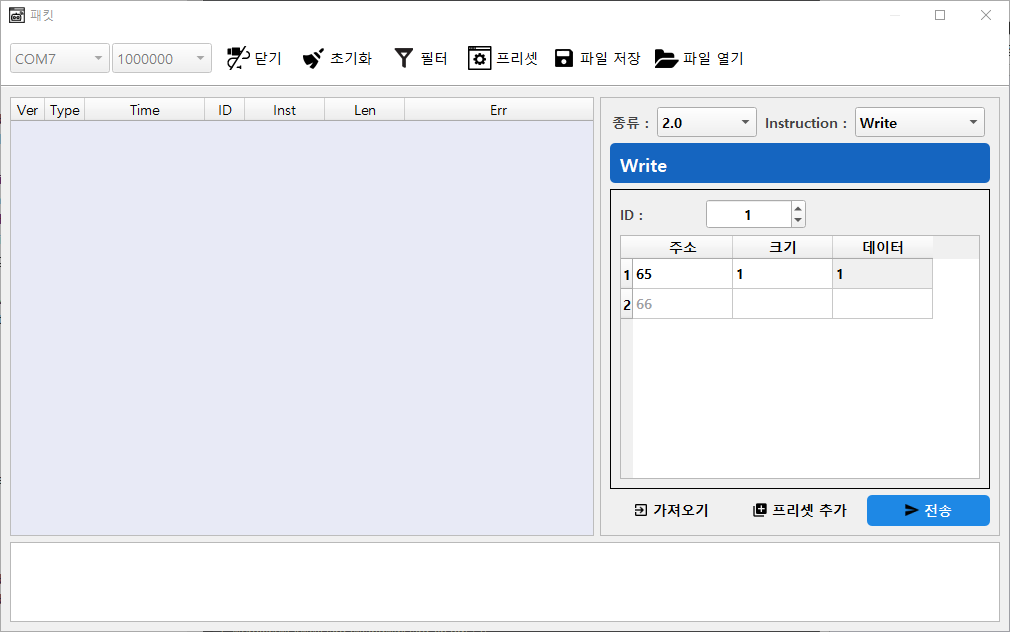
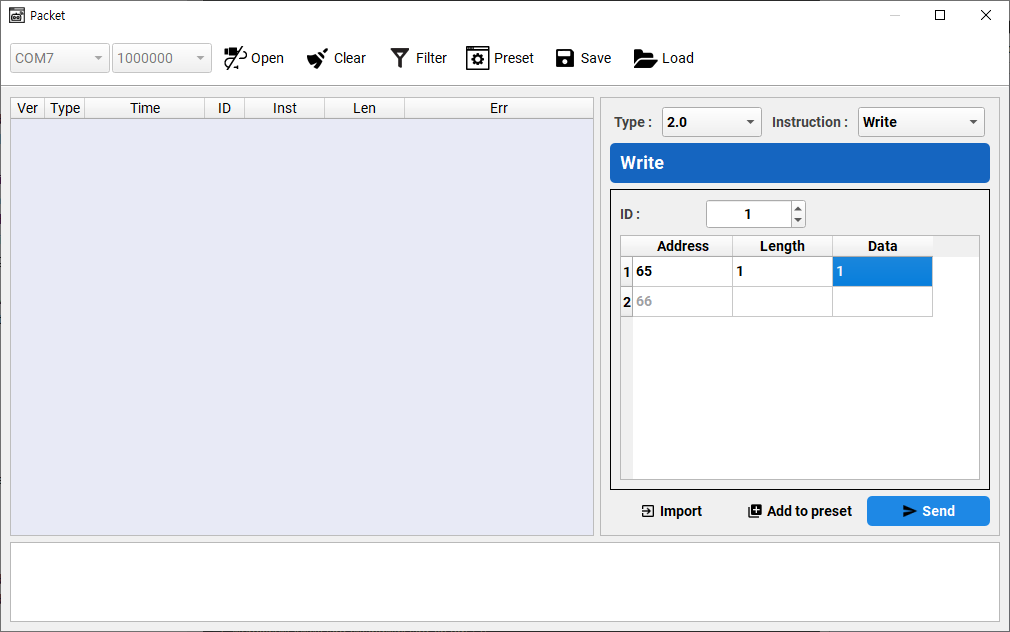
Modify DXL wizard2.0

diff --git a/docs/en/software/dynamixel/dynamixel_wizard2.md b/docs/en/software/dynamixel/dynamixel_wizard2.md
@@ -461,7 +461,7 @@ Detailed packet data can be loaded by selecting a packet in the packet history.
 
 7. Clicking the sent packet shows the detailed packet information.
 
-    ![](/assets/images/sw/dynamixel/wizard2/new_wizard2_packet_007_kr.png)
+    ![](/assets/images/sw/dynamixel/wizard2/new_wizard2_packet_007.png)
 
 ## [Firmware Update](#firmware-update)
 
